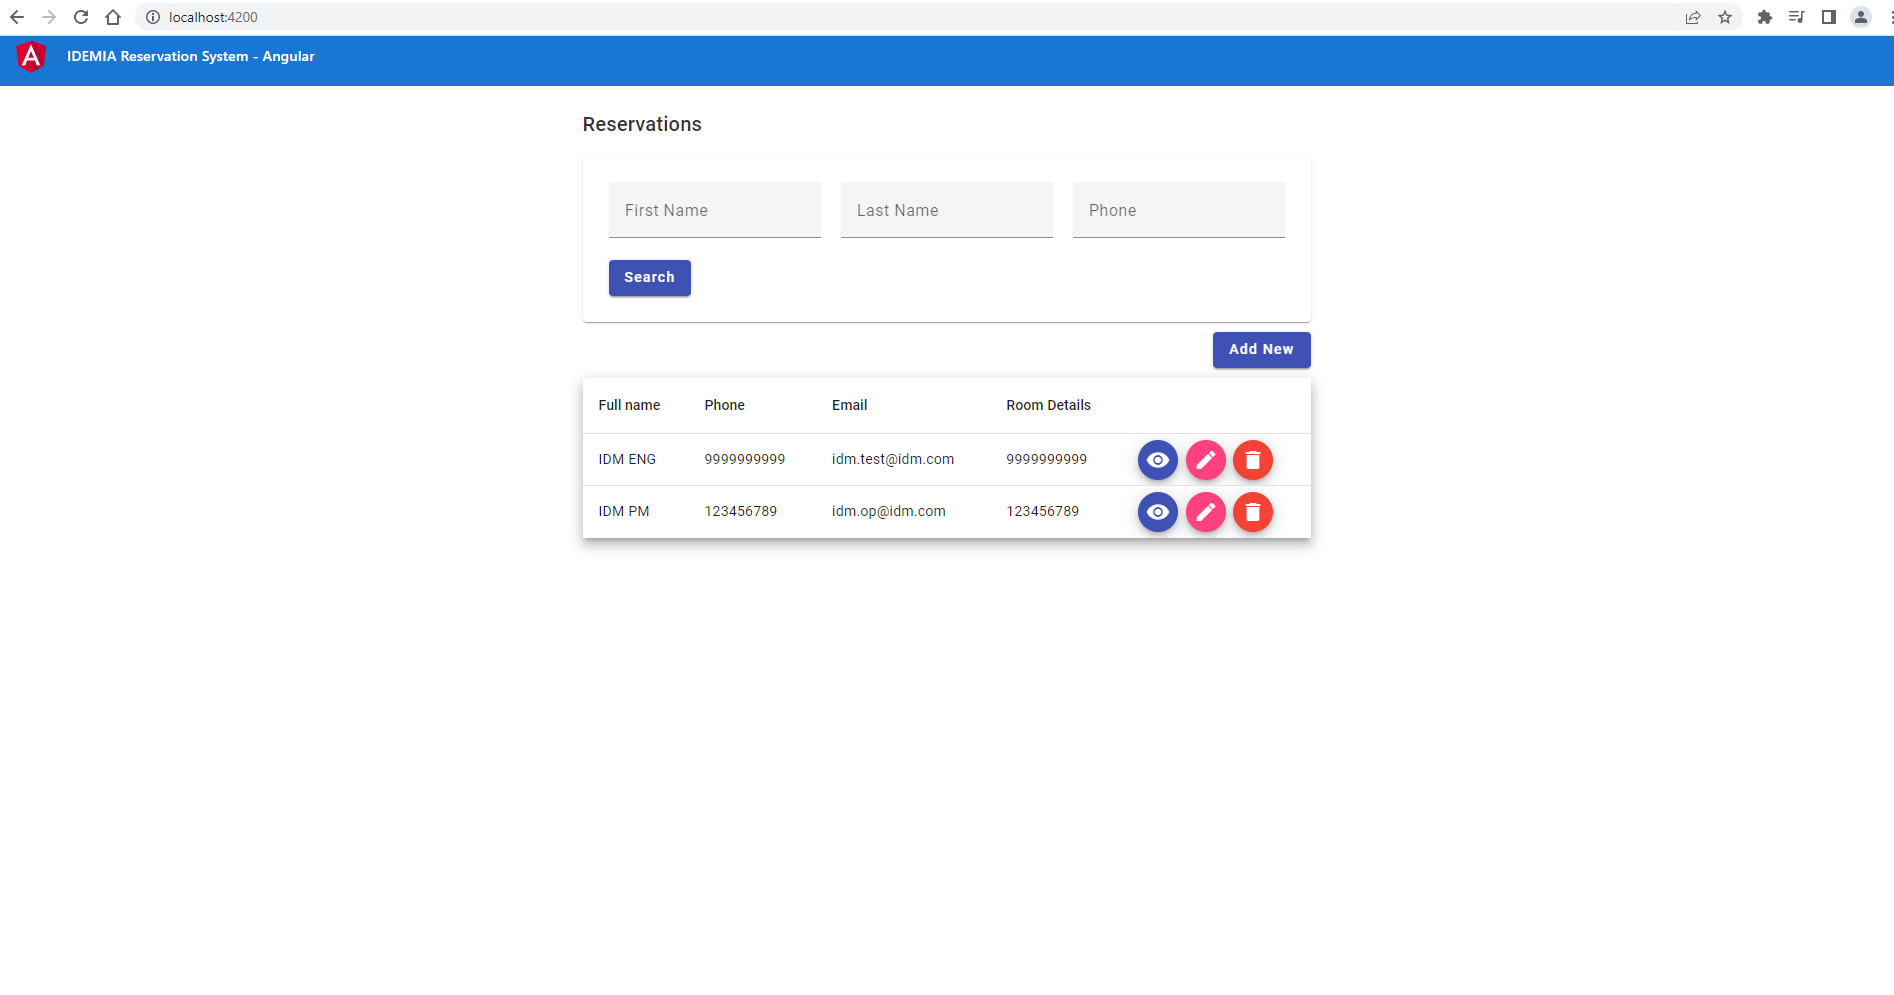
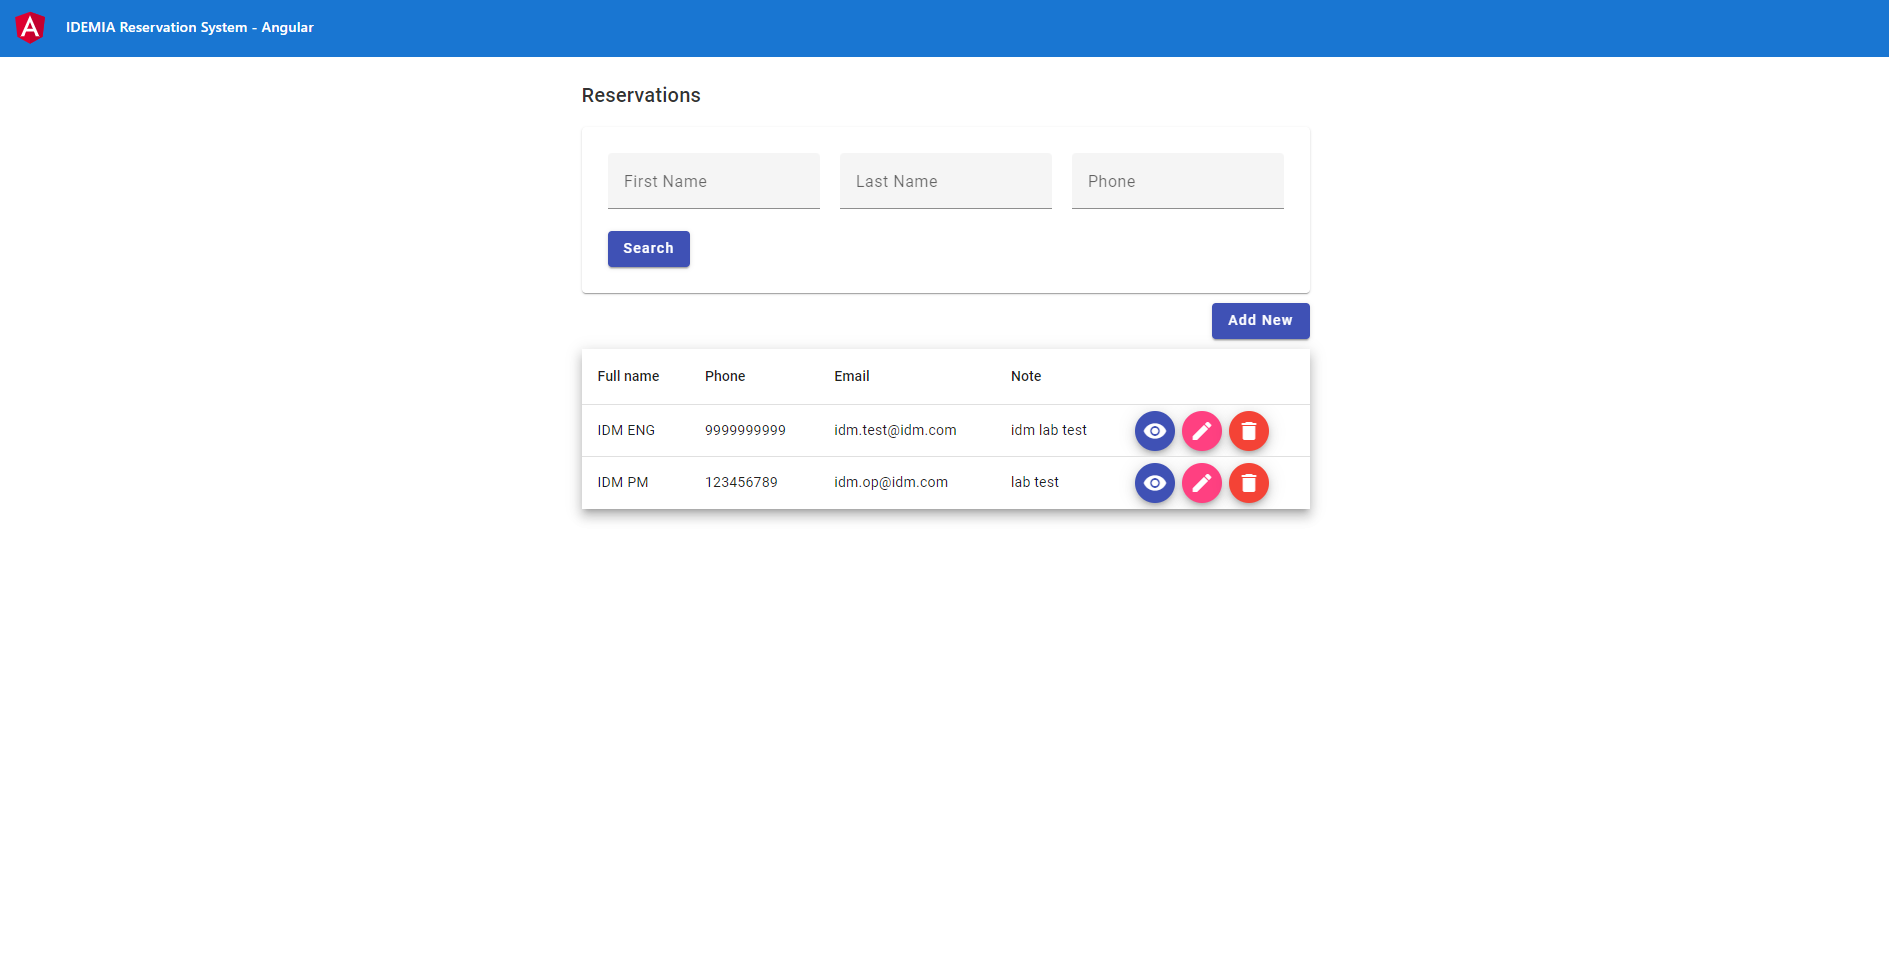
updates

diff --git a/src/app/reservation-list/reservation-list.component.spec.ts b/src/app/reservation-list/reservation-list.component.spec.ts
@@ -166,7 +166,7 @@ describe('ReservationListComponent', () => {
     expect(tableHeaders[0].innerHTML).toBe("Full name");
     expect(tableHeaders[1].innerHTML).toBe("Phone");
     expect(tableHeaders[2].innerHTML).toBe("Email");
-    expect(tableHeaders[3].innerHTML).toBe("Room Details");
+    expect(tableHeaders[3].innerHTML).toBe("Note");
   }))
 
   it('should test addReservation method in component', (() => {
